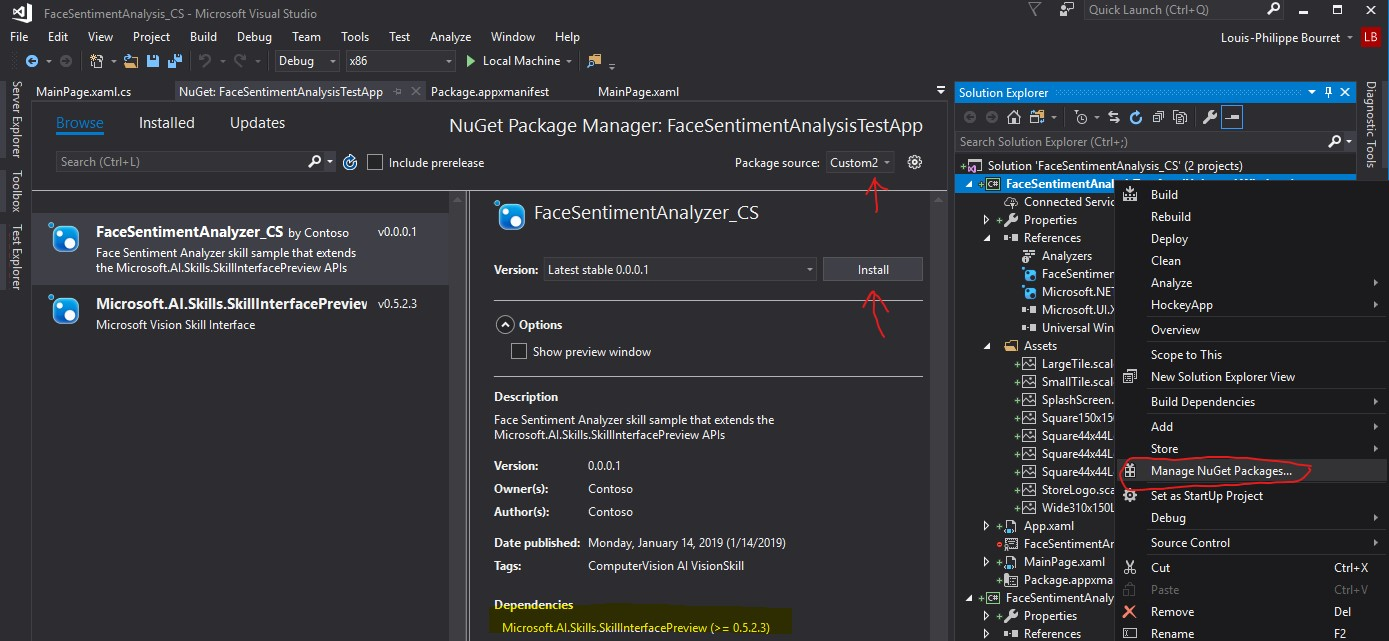
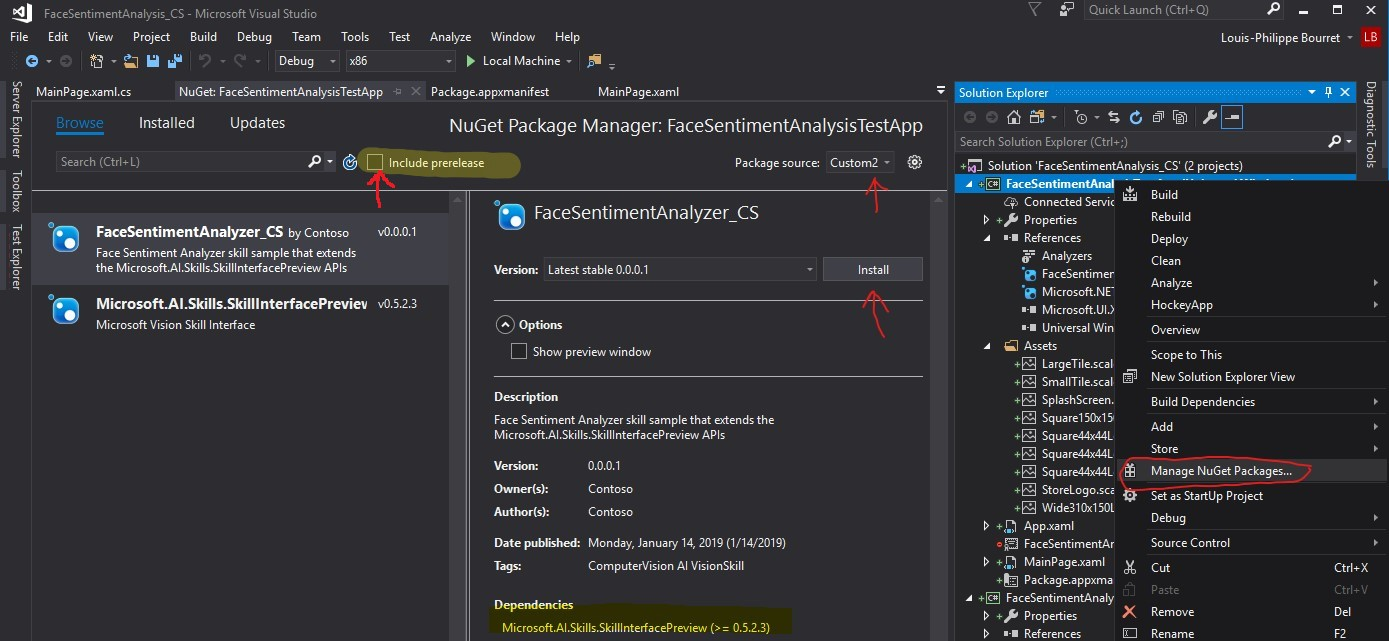
- update cppwinrt, Community Toolkit, vcrt forwarder dependencies to latest - update .nuspec for the FaceDetection sample AI Skill to depend on latest version of Skill Interface

Changed region(s): [[0.2477, 0.2184, 0.3715, 0.312], [0.3715, 0.9672, 0.4024, 0.9984]]

diff --git a/README.md b/README.md
@@ -2,24 +2,24 @@
 
 ## Summary
 
-Implementing and integrating efficient AI and Computer Vision (CV) solutions is a hard task for developers. The industry is moving at a fast pace and the amount of custom-tailored solutions coming out makes it almost impossible for app developers to keep up easily. 
+Implementing and integrating efficient AI and Computer Vision (CV) solutions is a hard task for developers. The industry is moving at a fast pace and the amount of custom-tailored solutions coming out makes it almost impossible for app developers to keep up easily. We provide a base framework to expose AI solutions called *AI Skills for Windows* as well as pre-built common solutions (i.e. detection, classification, segmentation, etc.) developed by [Microsoft](*MicrosoftSkills) and [partners](#IntelSkills).
 
-This framework is meant to standardize the way AI and CV is put to use within a Windows application (i.e.: UWP, Desktop Win32, .Net Core 3.0+) running on the edge. It aims to abstract away the complexity of AI techniques by simply defining the concept of *skills* which are modular pieces of code that process input(s) and produce output(s). The implementation that contains the complex details is encapsulated by extended WinRT API that inherits the base class present in the Microsoft.AI.Skills.SkillInterface namespace, which leverages built-in Windows primitives which in-turn eases interop with built-in hardware acceleration leveraged by frameworks such as *[Windows ML](https://docs.microsoft.com/en-us/windows/ai/windows-ml/)*.
+The *AI Skills for Windows* framework is meant to standardize the way AI and CV is put to use within a Windows application (i.e.: UWP, Desktop Win32, .Net Core 3.0+) running on the edge. It aims to abstract away the complexity of AI techniques by simply defining the concept of *skills* which are modular pieces of code that process input(s) and produce output(s). The implementation that contains the complex details (i.e. pre and post processing of data, model inference, algorithm, transcoding, applying the right heuristics, etc.) is encapsulated by WinRT APIs that inherits the base class present in the [Microsoft.AI.Skills.SkillInterface](./doc/Microsoft.AI.Skills.SkillInterface.md) namespace, which leverages built-in Windows primitives which in-turn eases interop with built-in hardware acceleration leveraged by frameworks such as *[Windows ML](https://docs.microsoft.com/en-us/windows/ai/windows-ml/)*. All *AI Skills for Windows* derivatives follow the same programatic paradigm and flow from a developer consumer standpoint: if you understand how to use one *AI Skill for Windows*, you understand how to use them all. 
 
 While this release focuses on vision-oriented scenarios and primitives, this API is meant to accommodate any kind of input and output variable and a wide range of scenarios (Vision, Audio, Text, etc.). Any developer can extend this API set and expose their own AI skills. [See skills released by Intel](#IntelSkills)
 
-If you are looking for the preview release samples a doc, we archived them in a branch here: *[Preview branch](https://github.com/microsoft/AISkillsForWindows/tree/Preview)*
+If you are looking for the earlier preview release samples and documentation, we archived them in a branch here: *[Preview branch](https://github.com/microsoft/AISkillsForWindows/tree/Preview)*
 
-## Creating a skill of your own
+## Creating your own *AI Skill for Windows* to empower others
 
-For how to use the AI Skills interface to author a new AI Skill of your own exposing your AI solution to other Windows app developers, and creating an actual app to consume this crafted skill, see this sample:
+For a guide on how to use the *AI Skills for Windows* interfaces to author a new *AI Skill for Windows* of your own exposing your AI solution to other Windows app developers, and creating an actual app to consume this crafted skill, see this complete end-to-end sample:
 
 ### **[Sentiment Analyzer Sample Skill](samples/SentimentAnalyzerSampleSkill)**
 
-| ![FaceSentimentAnalyzer sample skill logo](./doc/FaceSentimentAnalyzerLogo.png) | Walking through the steps to create, in C++ or in C#, a sample AI Skill that leverages WinML and MediaFoundation as well as how to consume it in a Win32 Dektop, .Net Core 3.0+ or UWP app|
+| ![FaceSentimentAnalyzer sample skill logo](./doc/FaceSentimentAnalyzerLogo.png) | Walking through the steps to create, in C++ or in C#, a sample *AI Skill for Windows* that leverages the Windows [FaceDetector](https://docs.microsoft.com/en-us/uwp/api/Windows.Media.FaceAnalysis.FaceDetector) to extract sub-images of face area and [Windows ML](https://docs.microsoft.com/en-us/windows/ai/windows-ml/) to run inference with a sentiment classifier model that takes images as inputs and returns predictions. Theres are also examples of Win32, .Net Core 3.0 and UWP applications that ingest this *AI Skill for Windows* and use MediaFoundation APIs to feed it with frames from a camera or file. |
 | -- | -- |
 
-## Code samples for using AI skills [published by Microsoft on nuget.org](https://www.nuget.org/profiles/VisionSkills)
+## Code samples for using *AI skills for Windows* [published by Microsoft on nuget.org](https://www.nuget.org/profiles/VisionSkills) <a name="MicrosoftSkills"></a>
 
 ### **[Object Detector](samples/ObjectDetector)**
 

diff --git a/samples/SentimentAnalyzerCustomSkill/README.md b/samples/SentimentAnalyzerCustomSkill/README.md
@@ -1,11 +1,11 @@
 # Sentiment Analyzer AI Skill sample
 
 Provides an end-to-end sample to show how to write an AI Skill for Windows by extending the [Microsoft.AI.Skills.SkillInterface](../../doc/Microsoft.AI.Skills.SkillInterface.md) base API.
-This skill's implementation leverages the Windows built-in `FaceDetector` and `Windows.AI` APIs along a Machine Learning model in ONNX format to identify a face in an image and infer its sentiment.
-This sample also contains scripts to package the skill's Windows Runtime Component and its assets to a NuGet package (.nupkg). It also provides sample applications written in C++ and C# targetting UWP, Win32 Desktop and .NetCore 3.0 Desktop that ingest this NuGet package and exercise the skill against images.
+This skill's implementation leverages the Windows built-in `FaceDetector` and `Windows.AI` APIs along a Machine Learning model in ONNX format to identify a face in an image, segment the portion of the image where the face is, feed it to the ml model and infer its sentiment.
+This sample also contains scripts to package the skill's Windows Runtime Component and its assets to a NuGet package (.nupkg). It also provides sample applications written in C++ and C# targetting UWP, Win32 Desktop and .NetCore 3.0 Desktop that ingest this NuGet package and execute the skill against images.
 
 ## Scenario
-A developer wants to expose a functionality to his/her users that infers the sentiments of persons from an image.
+A developer wants to expose a functionality to his/her users that infers the sentiments of persons from an image like so:
 
 ![TestApp1](./doc/TestApp1.jpg)
 
@@ -44,13 +44,22 @@ Specifically, this sample shows how to:
 2. Open a powershell command line and navigate to the *<root>/build/* folder.
 
 3. To build and package the **C# version** of the sample skill:
-    1. Run the included powershell script named *BuildSentimentAnalyzer_CS.ps1*
-    2. Once the sample is built, to generate a NuGet package from it, you can run the included powershell script named *PackageSentimentAnalyzer_CS.ps1*. You should see a *Contoso.FaceSentimentAnalyzer_CS\*.nupkg* file generated.
+    1. Run the included powershell script named *BuildSentimentAnalyzer_CS.ps1* which will build the C# version of the FaceDetection AI Skill for all architectures (x64, x86, ARM64, ARM)
+    2. Once the sample is built, to generate a NuGet package from it, you can run the included powershell script named *PackageSentimentAnalyzer_CS.ps1* or run manualy from a cmd window opened in this folder the following:
+        ````
+        .\nuget.exe pack Contoso.FaceSentimentAnalyzer_CS.nuspec
+        ````
+        You should see a *Contoso.FaceSentimentAnalyzer_CS\*.nupkg* NuGet package file generated.
 
 4. To build and package the **C++/WinRT version** of the skill:
-    1. Run the included powershell script named *BuildSentimentAnalyzer_CPP.ps1* <a name="ManifestGeneration"></a>
+    1. Run the included powershell script named *BuildSentimentAnalyzer_CPP.ps1* which will build the C++ version of the FaceDetection AI Skill for all architectures (x64, x86, ARM64, ARM) 
+        <a name="ManifestGeneration"></a>
         - This version of the skill will run a script as a post-build step that generates a [manifest file](https://docs.microsoft.com/en-us/windows/desktop/sbscs/manifests) (.manifest). This enables a mechanism that provides interoperability with **Win32** and **.NetCore 3.0** apps by activating COM components exposed in our skill Windows Runtime Component we just built.
-    2. Once the sample is built, to generate a NuGet package from it, you can run the included powershell script named *PackageSentimentAnalyzer_CPP.ps1*. You should see a *FaceSentimentAnalyzer_CPP\*.nupkg* file generated.
+    2. Once the sample is built, to generate a NuGet package from it, you can run the included powershell script named *PackageSentimentAnalyzer_CPP.ps1*. 
+        ````
+        .\nuget.exe pack Contoso.FaceSentimentAnalyzer_CPP.nuspec
+        ````
+        You should see a *FaceSentimentAnalyzer_CPP\*.nupkg* NuGet package file generated.
 
 ### 2. Build and run the sample apps
 
@@ -72,6 +81,7 @@ In order for local NuGet packages to be available to your app project, you need 
 
 3. From your test app project, make sure you install the skill NuGet package by right-clicking on your project \> *Manage NuGet Packages*, then make sure the *Package Source* points to your custom NuGet source, then click *Install*
 ![LocalNugetHowTo3](./doc/localNugetHowTo3.jpg)
+    >**Important to note:** make sure you check the box named "*include prerelease*" to see the preview versions of NuGet packages such as the version of the *Microsoft.AI.Skills.SkillInterface* leveraged by the FaceDetection AI Skill this app ingests.
 
 ## Related topics
 **Reference**
